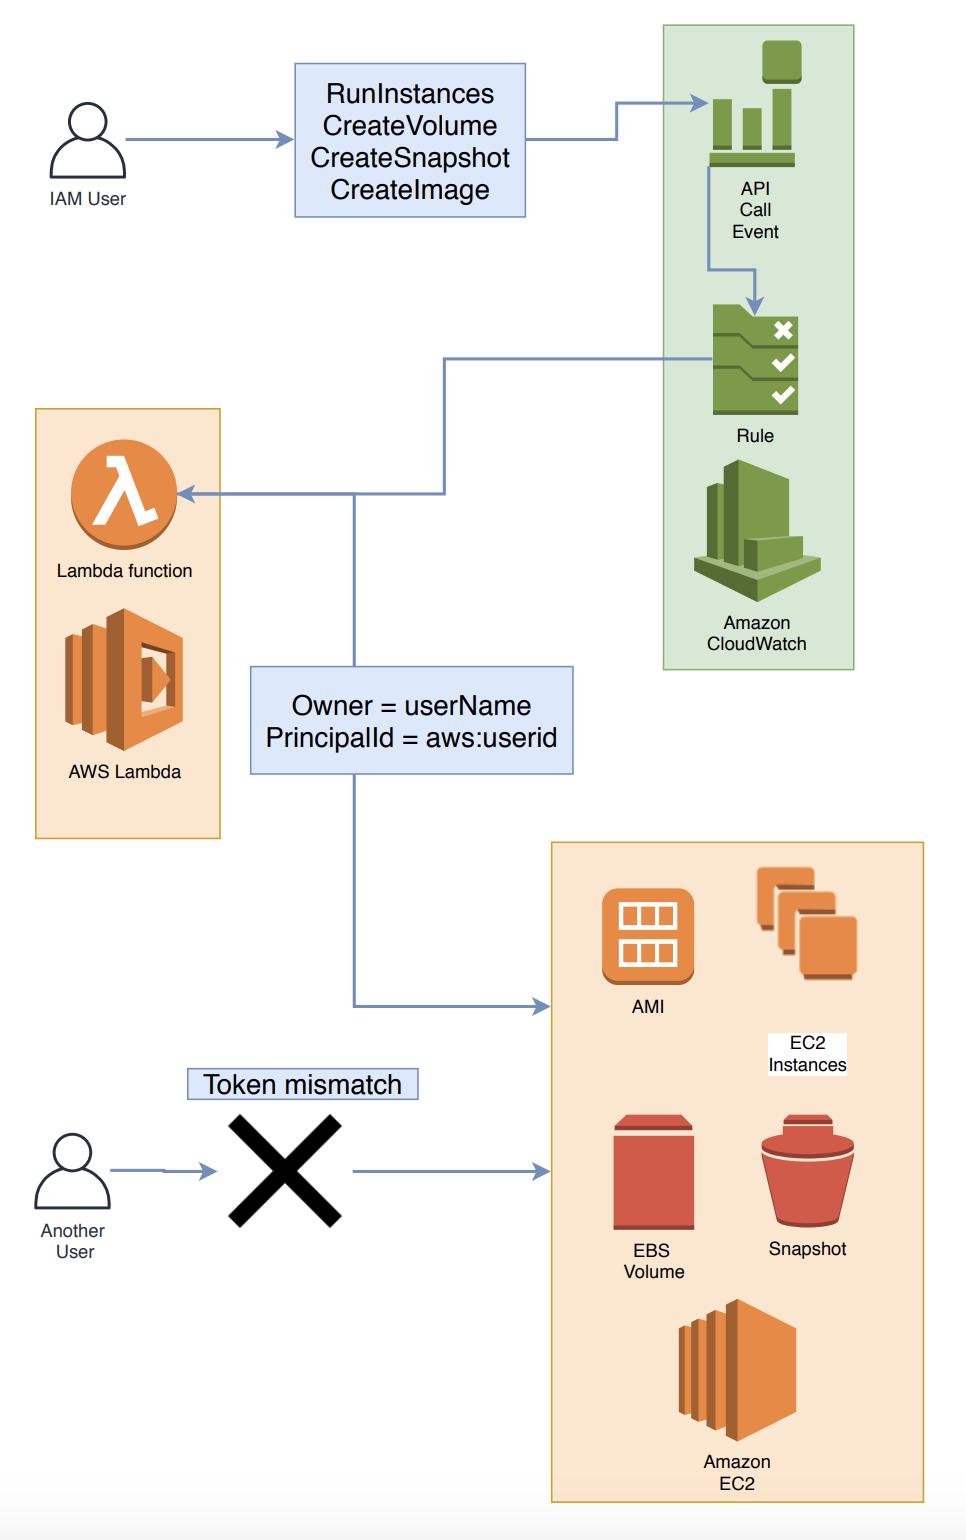
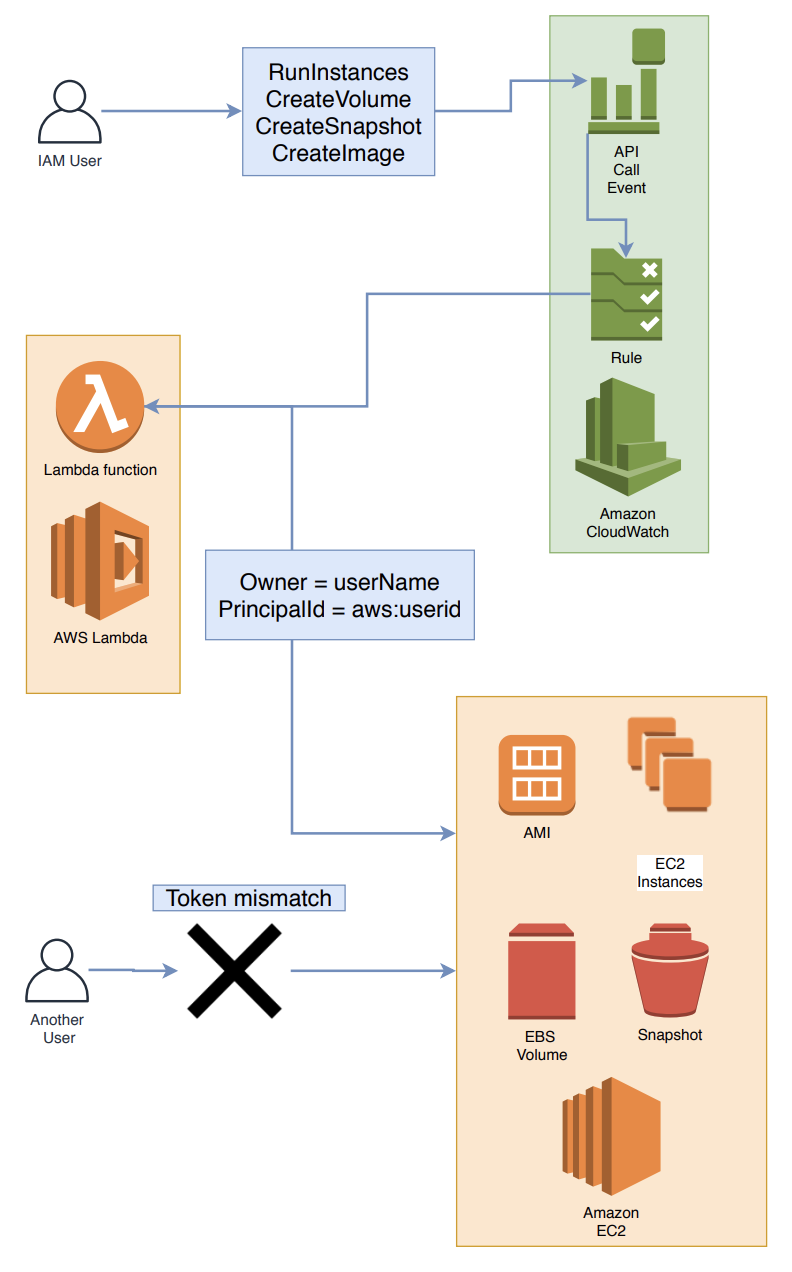
resize img

diff --git a/README.md b/README.md
@@ -1,8 +1,6 @@
 # Automation ec2 Tagging
 
 
-Project to automate the tagging of EC2 instances and their corresponding resources using a Lambda function with CloudTrail and CloudWatch
+Project to automate the tagging of EC2 instances and their corresponding resources using a Lambda function with CloudTrail and CloudWatch 
 
-<img src="https://raw.githubusercontent.com/ErickYataco/automation-ec2-tagging-lambda/master/automation-ec2-tagging-lambda.png” width=400 height=1000 /> 
-
-![](automation-ec2-tagging-lambda.png){:height="50%" width="50%"}
+![](automation-ec2-tagging-lambda.png)
